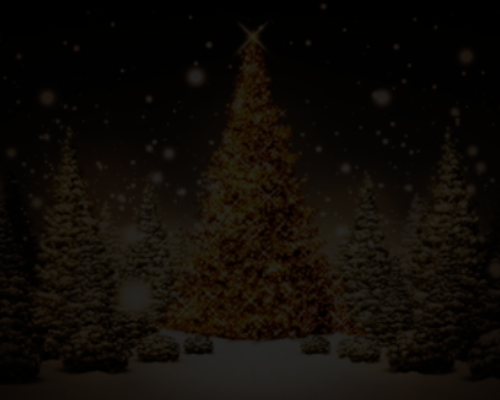
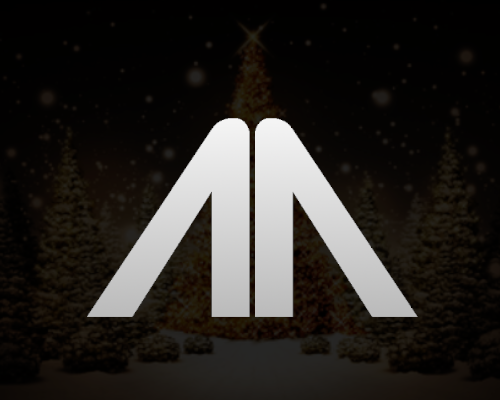
msg

Changed region(s): [[0.18, 0.27, 0.84, 0.81]]

diff --git a/msg.py b/msg.py
@@ -6,7 +6,7 @@ import getpass
 xuser = str(getpass.getuser())
 filepath = str('C://Users//'+xuser+'//Desktop//msg.hta')
 backpath = str('https://github.com/alectramell/msg/raw/master/img/bg.png')
-xdata = str('''<b><font color="#29ff34" size="5">MERRY CHRISTMAS!!!</font></b><br />from Tramell Software Development!''')
+xdata = str('''<font color="#29ff34" size="5"><b>MERRY CHRISTMAS!!!</b></font></b><br />from <b>Tramell Software Development!</b><br /><br /><font color="#00c3ff"><b>90% Off Full-Site Custom Web-Design</b></font><br /><font color="#ffffff"><b>[item-code]</b></font>''')
 xdocument = '''
 <HTA:application
 
